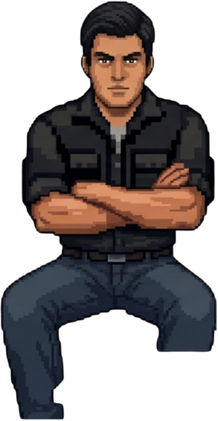
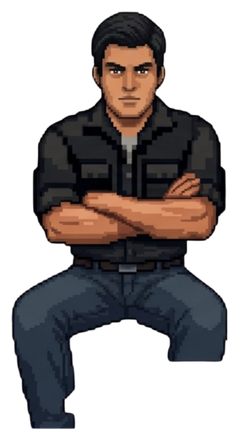
"Updated the program"

diff --git a/src/theforthtenant/Interrogate.java b/src/theforthtenant/Interrogate.java
@@ -166,23 +166,40 @@ public class Interrogate extends javax.swing.JFrame {
                 backButton.setIcon(backNormal);
             }
             @Override public void mouseClicked(java.awt.event.MouseEvent e) {
-                closeInterrogate();
+                if (currentSuspect >= 0) {
+                    // We are in a conversation, just go back to the lounge
+                    AudioCache.play("/audio/sfx/ui/select.wav");
+                    returnToLounge();
+                } else {
+                    // We are in the lounge, exit completely
+                    closeInterrogate();
+                }
             }
         });
 
         // ---- ESC also backs out ----
-        javax.swing.JRootPane root = getRootPane();
-        root.getInputMap(javax.swing.JComponent.WHEN_IN_FOCUSED_WINDOW)
-            .put(javax.swing.KeyStroke.getKeyStroke(
-                    java.awt.event.KeyEvent.VK_ESCAPE, 0), "closeInterrogate");
-        root.getInputMap(javax.swing.JComponent.WHEN_IN_FOCUSED_WINDOW)
-            .put(javax.swing.KeyStroke.getKeyStroke(
-                    java.awt.event.KeyEvent.VK_4, 0), "closeInterrogate");
-        root.getActionMap().put("closeInterrogate", new javax.swing.AbstractAction() {
+         javax.swing.JRootPane root = getRootPane();
+        
+        // Create the action once
+        javax.swing.AbstractAction backAction = new javax.swing.AbstractAction() {
             @Override public void actionPerformed(java.awt.event.ActionEvent e) {
-                closeInterrogate();
+                if (currentSuspect >= 0) {
+                    returnToLounge();
+                } else {
+                    closeInterrogate();
+                }
             }
-        });
+        };
+
+        // Bind ESC
+        root.getInputMap(javax.swing.JComponent.WHEN_IN_FOCUSED_WINDOW)
+            .put(javax.swing.KeyStroke.getKeyStroke(java.awt.event.KeyEvent.VK_ESCAPE, 0), "backAction");
+        root.getActionMap().put("backAction", backAction);
+
+        // Bind 4
+        root.getInputMap(javax.swing.JComponent.WHEN_IN_FOCUSED_WINDOW)
+            .put(javax.swing.KeyStroke.getKeyStroke(java.awt.event.KeyEvent.VK_4, 0), "backAction");
+        root.getActionMap().put("backAction", backAction);
 
         // ---- Options popup ----
         optionsMenu = OptionsMenu.attachTo(this, new OptionsMenu.Callbacks() {
@@ -252,10 +269,11 @@ public class Interrogate extends javax.swing.JFrame {
         contentPanel.add(andyButton, new org.netbeans.lib.awtextra.AbsoluteConstraints(686, 266, -1, 410));
 
         cathyButton.setIcon(new javax.swing.ImageIcon(getClass().getResource("/Images/gameplay/interrogate/suspects/cathy.png"))); // NOI18N
-        contentPanel.add(cathyButton, new org.netbeans.lib.awtextra.AbsoluteConstraints(480, 282, -1, -1));
+        contentPanel.add(cathyButton, new org.netbeans.lib.awtextra.AbsoluteConstraints(480, 278, -1, 340));
 
         cardoButton.setIcon(new javax.swing.ImageIcon(getClass().getResource("/Images/gameplay/interrogate/suspects/cardo.png"))); // NOI18N
-        contentPanel.add(cardoButton, new org.netbeans.lib.awtextra.AbsoluteConstraints(260, 258, -1, -1));
+        cardoButton.setPreferredSize(new java.awt.Dimension(237, 239));
+        contentPanel.add(cardoButton, new org.netbeans.lib.awtextra.AbsoluteConstraints(250, 250, -1, 430));
 
         backgroundLabel.setIcon(new javax.swing.ImageIcon(getClass().getResource("/Images/gameplay/interrogate/lounge_bg.png"))); // NOI18N
         contentPanel.add(backgroundLabel, new org.netbeans.lib.awtextra.AbsoluteConstraints(0, 0, 1150, -1));
@@ -387,37 +405,127 @@ public class Interrogate extends javax.swing.JFrame {
    
     /** Transitions from the lounge into the interrogation room. */
     private void startInterrogation(int suspectIndex) {
+        hideTooltip();
         currentSuspect = suspectIndex;
         
-        // 1. Hide the lounge buttons (they are no longer needed)
+        // 1. Hide the lounge buttons
         cardoButton.setVisible(false);
         cathyButton.setVisible(false);
         andyButton.setVisible(false);
         
-        // 2. Swap the background to the suspect's idle state
+        // 2. Get the correct icon
         javax.swing.ImageIcon idleIcon = null;
-        
-        if (suspectIndex == 0) {
-            idleIcon = cardoIdle;
-        } else if (suspectIndex == 1) {
-            idleIcon = cathyIdle;
-        } else if (suspectIndex == 2) {
-            idleIcon = andyIdle;
-        }
+        if (suspectIndex == 0) idleIcon = cardoIdle;
+        else if (suspectIndex == 1) idleIcon = cathyIdle;
+        else if (suspectIndex == 2) idleIcon = andyIdle;
 
+        // 3. Always play the fade transition
         if (idleIcon != null) {
-            backgroundLabel.setIcon(idleIcon);
+            fadeInBackground(idleIcon);
         }
         
-        // 3. Make sure the background is drawn ON TOP of the hidden buttons
-        // (Index 0 in AbsoluteLayout pushes it to the front)
-        contentPanel.setComponentZOrder(backgroundLabel, 0);
-        
-        // 4. Make sure the back button is STILL on top of the background so you can leave
+        // 4. Fix layering
+        contentPanel.setComponentZOrder(backgroundLabel, contentPanel.getComponentCount() - 1);
         contentPanel.setComponentZOrder(backButton, 0);
         
         contentPanel.revalidate();
         contentPanel.repaint();
+    }
+    
+    /** Creates a quick fade-to-black effect, swaps the background image, then fades back in. */
+    private void fadeInBackground(javax.swing.ImageIcon newBg) {
+        // Create our custom fading overlay
+        FadeOverlay fadeOverlay = new FadeOverlay();
+        
+        // Add it to the screen using AbsoluteConstraints
+        contentPanel.add(fadeOverlay, new org.netbeans.lib.awtextra.AbsoluteConstraints(0, 0, 1150, 680));
+        contentPanel.setComponentZOrder(fadeOverlay, 0); // Bring to front
+        contentPanel.revalidate();
+        contentPanel.repaint();
+
+        final int duration = 400; // Total time in ms
+        final long start = System.currentTimeMillis();
+        final boolean[] imageSwapped = { false }; // To ensure we only swap once
+
+        javax.swing.Timer timer = new javax.swing.Timer(16, null);
+        timer.addActionListener(e -> {
+            long elapsed = System.currentTimeMillis() - start;
+            float progress = Math.min(1f, elapsed / (float) duration);
+
+            if (progress < 0.5f) {
+                // First half: Fade TO black (0.0 -> 1.0)
+                fadeOverlay.setAlpha(progress * 2f);
+            } else {
+                // Second half: Swap image and Fade FROM black (1.0 -> 0.0)
+                if (!imageSwapped[0]) {
+                    backgroundLabel.setIcon(newBg);
+                    imageSwapped[0] = true;
+                }
+                fadeOverlay.setAlpha((1f - progress) * 2f);
+            }
+
+            if (progress >= 1f) {
+                // Done! Remove the overlay.
+                contentPanel.remove(fadeOverlay);
+                contentPanel.revalidate();
+                contentPanel.repaint();
+                ((javax.swing.Timer) e.getSource()).stop();
+            }
+        });
+        timer.start();
+    }
+    
+    /** Returns the screen to the lounge state. */
+    private void returnToLounge() {
+        currentSuspect = -1;
+        backgroundLabel.setIcon(loungeBgIcon);
+        
+        // Restore the lounge suspects
+        cardoButton.setVisible(true);
+        cathyButton.setVisible(true);
+        andyButton.setVisible(true);
+        
+        // Reset their images back to the lounge portraits
+        cardoButton.setIcon(loadIcon("/Images/gameplay/interrogate/suspects/cardo.png"));
+        cathyButton.setIcon(loadIcon("/Images/gameplay/interrogate/suspects/cathy.png"));
+        andyButton.setIcon(loadIcon("/Images/gameplay/interrogate/suspects/andy.png"));
+        
+        // Reset their original positions
+        cardoButton.setLocation(260, 258);
+        cathyButton.setLocation(480, 282);
+        andyButton.setLocation(686, 266);
+        
+        // --- THE FIX: Bring the suspects back to the front ---
+        contentPanel.setComponentZOrder(cardoButton, 0);
+        contentPanel.setComponentZOrder(cathyButton, 0);
+        contentPanel.setComponentZOrder(andyButton, 0);
+        contentPanel.setComponentZOrder(backButton, 0);
+        
+        contentPanel.revalidate();
+        contentPanel.repaint();
+    }
+    
+    /** Simple black overlay that fades out. */
+    private static class FadeOverlay extends javax.swing.JComponent {
+        private float alpha = 1f;
+
+        FadeOverlay() {
+            setOpaque(false);
+        }
+
+        void setAlpha(float a) {
+            this.alpha = Math.max(0f, Math.min(1f, a));
+            repaint();
+        }
+
+        @Override
+        protected void paintComponent(java.awt.Graphics g) {
+            if (alpha <= 0f) return;
+            java.awt.Graphics2D g2 = (java.awt.Graphics2D) g.create();
+            g2.setColor(new java.awt.Color(0, 0, 0, (int)(alpha * 255)));
+            g2.fillRect(0, 0, getWidth(), getHeight());
+            g2.dispose();
+        }
     }
     
     public static void main(String args[]) {

diff --git a/src/theforthtenant/CrimeScene.java b/src/theforthtenant/CrimeScene.java
@@ -384,7 +384,7 @@ public class CrimeScene extends javax.swing.JFrame {
         makeCollectable(loveLetters, SCENE_CARDO,   "love_letters");
         
         // ---- Restore INTERROGATE unlock state (from a previous visit) ----
-        if (true) { //DEBUG 
+        if (GameState.allCollected()) {
             interrogateUnlocked = true;
             interrogateListenerAttached = true; 
             

diff --git a/src/theforthtenant/GameState.java b/src/theforthtenant/GameState.java
@@ -47,8 +47,7 @@ public final class GameState {
     }
 
     public static boolean allCollected() {
-        //return collectedCount() >= TOTAL_ITEMS;
-        return true;
+        return collectedCount() >= TOTAL_ITEMS;
     }
     
     private static boolean phoneUnlocked = false;
